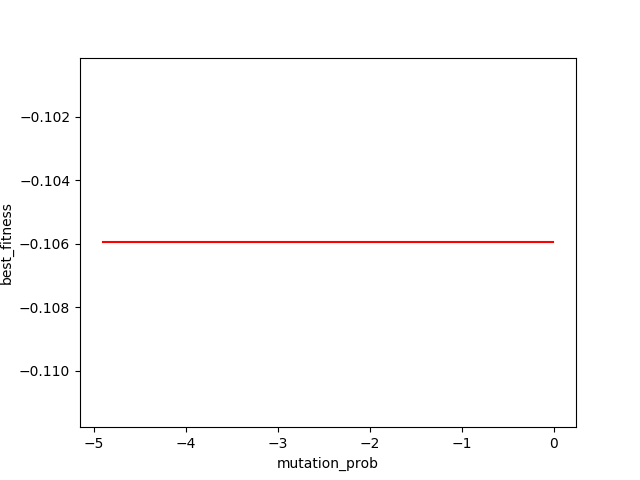
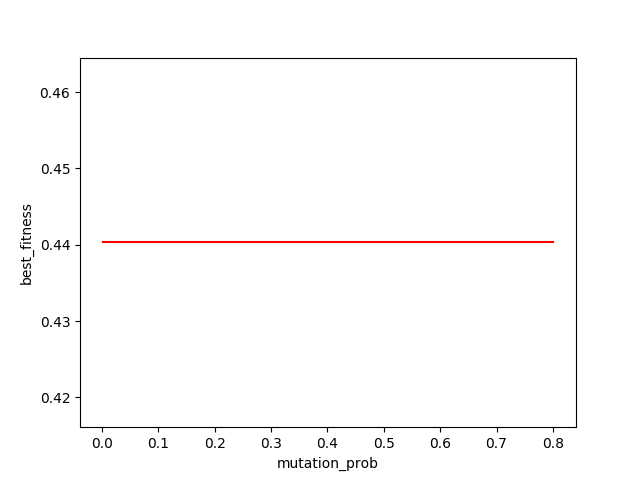
sdfds

diff --git a/HW_2/HW2.py b/HW_2/HW2.py
@@ -1,4 +1,7 @@
 import numpy as np
+import sys
+np.set_printoptions(threshold=sys.maxsize)
+import pandas as pd
 import matplotlib
 matplotlib.use('TkAgg')
 import matplotlib.pyplot as plt
@@ -291,7 +294,7 @@ def MI(problem, prob_name):
 def plotting(prob_name, algo_name, valuess):
     if (prob_name == "nCityTSP") or (prob_name == "MaxKColor"):
         for value in valuess:
-            plt.plot(value[0], value[1], color="r",)
+            plt.plot(value[0], 1/value[1], color="r",)
             x_title = value[2]
             y_title = value[3]
             plt.xlabel(x_title)
@@ -309,10 +312,10 @@ def plotting(prob_name, algo_name, valuess):
             plt.savefig('{}_{}_{}.png'.format(prob_name, algo_name, value[2]))
             plt.gcf().clear()
 
-def generate_prob_MKC(random_seed=0, nodes=8, size=5):
+def generate_prob_MKC(random_seed=0, nodes=8, sample_size=5):
     np.random.seed(random_seed)
     problem_list = []
-    for n in range(size):
+    for n in range(sample_size):
         edges_list = []
         for i in range(nodes):
             for j in range(i + 1, nodes):
@@ -327,22 +330,11 @@ def generate_prob_MKC(random_seed=0, nodes=8, size=5):
         problem_list.append(problem)
     return problem_list
 
-if __name__=="__main__":
-
-    '''Problem 1: n-city TSP: over a map of given size,
-    generate N cities for a salesman to travel through each city and find the shortest route'''
-    # Create list of city coordinates
-    result_RHC_list = []
-    result_SA_list = []
-    result_GA_list = []
-    result_MI_list = []
-    result_RHC_title = []
-
-    for random_seed in range(3):
-
-        np.random.seed(random_seed)
-
-        city_num = 6
+def generate_prob_TSP(random_seed=0, citys=6, sample_size=5):
+    np.random.seed(random_seed)
+    problem_list = []
+    for n in range(sample_size):
+        city_num = citys
         coords_list = []
         for i in range(city_num):
             coords_list.append((np.random.random_sample(), np.random.random_sample()))
@@ -354,60 +346,89 @@ if __name__=="__main__":
         # rev_dist_list = np.array(rev_dist_list)
 
         # Initialize fitness function object using coords_list
-        fitness_cords = mlrose.TravellingSales(coords = coords_list)
+        fitness_cords = mlrose.TravellingSales(coords=coords_list)
         # fitness_dists = mlrose.TravellingSales(distances = rev_dist_list)
 
         # Define optimization problem object
-        problem_nCityTSP = mlrose.TSPOpt(length=city_num, fitness_fn=fitness_cords, maximize=False)
+        problem = mlrose.TSPOpt(length=city_num, fitness_fn=fitness_cords, maximize=False)
+        problem_list.append(problem)
+    return problem_list
 
-        result_RHC = RHC(problem_nCityTSP, "nCityTSP")
+
+def prob_to_curves(prob_name, problem_list):
+    # Create list of city coordinates
+    result_RHC_list = []
+    result_SA_list = []
+    result_GA_list = []
+    result_MI_list = []
+
+    for problem in problem_list:
+        result_RHC = RHC(problem, prob_name)
         result_RHC_num = result_RHC[0:, :2]
         result_RHC_list.append(result_RHC_num)
 
-        # result_SA = SA(problem_nCityTSP, "nCityTSP")
-        # result_SA_num = result_SA[0:, :2]
-        # result_SA_list.append(result_SA_num)
+        result_SA = SA(problem, prob_name)
+        result_SA_num = result_SA[0:, :2]
+        result_SA_list.append(result_SA_num)
 
-        # result_GA = GA(problem_nCityTSP, "nCityTSP")
-        # result_GA_num = result_GA[0:, :2]
-        # result_GA_list.append(result_GA_num)
-        #
-        # result_MI = MI(problem_nCityTSP, "nCityTSP")
-        # result_MI_num = result_MI[0:, :2]
-        # result_MI_list.append(result_MI_num)
+        result_GA = GA(problem, prob_name)
+        result_GA_num = result_GA[0:, :2]
+        result_GA_list.append(result_GA_num)
 
-    result_RHC_list = np.array(result_RHC_list) 
+        result_MI = MI(problem, prob_name)
+        result_MI_num = result_MI[0:, :2]
+        result_MI_list.append(result_MI_num)
+
+    result_RHC_list = pd.DataFrame(result_RHC_list)
+    result_RHC_list = result_RHC_list.fillna(method='ffill')
+    print("=======b4 mean====", result_RHC_list)
     result_RHC_mean = np.nanmean(result_RHC_list, axis=0)
+    print("=======mean====", result_RHC_mean)
     result_RHC_title = result_RHC[0:, 2:]
-    results_RHC_complete = np.concatenate((result_RHC_mean, result_RHC_title), axis=1)
-    plotting("nCityTSP", "RHC", results_RHC_complete)
+    results_RHC_complete = np.concatenate((result_RHC_mean[0], result_RHC_title), axis=1)
+    plotting(prob_name, "RHC", results_RHC_complete)
 
-    # result_SA_list = np.array(result_SA_list)
-    # result_SA_mean = np.nanmean(result_SA_list, axis=0)
-    # result_SA_title = result_SA[0:, 2:]
-    # results_SA_complete = np.concatenate((result_SA_mean, result_SA_title), axis=1)
-    # plotting("nCityTSP", "SA", results_SA_complete)
+    result_SA_list = pd.DataFrame(result_SA_list)
+    result_SA_list = result_SA_list.fillna(method='ffill')
+    result_SA_mean = np.nanmean(result_SA_list, axis=0)
+    result_SA_title = result_SA[0:, 2:]
+    results_SA_complete = np.concatenate((result_SA_mean[0], result_SA_title), axis=1)
+    plotting(prob_name, "SA", results_SA_complete)
 
-    # result_GA_list = np.array(result_GA_list) * -1
-    # result_GA_mean = np.nanmean(result_GA_list, axis=0)
-    # result_GA_title = result_GA[0:, 2:]
-    # results_GA_complete = np.concatenate((result_GA_mean, result_GA_title), axis=1)
-    # plotting("nCityTSP", "GA", results_GA_complete)
+    result_GA_list = pd.DataFrame(result_GA_list)
+    result_GA_list = result_GA_list.fillna(method='ffill')
+    result_GA_mean = np.nanmean(result_GA_list, axis=0)
+    result_GA_title = result_GA[0:, 2:]
+    results_GA_complete = np.concatenate((result_GA_mean[0], result_GA_title), axis=1)
+    plotting(prob_name, "GA", results_GA_complete)
     #
-    # result_MI_list = np.array(result_MI_list) * -1
-    # result_MI_mean = np.nanmean(result_MI_list, axis=0)
-    # result_MI_title = result_MI[0:, 2:]
-    # results_MI_complete = np.concatenate((result_MI_mean, result_MI_title), axis=1)
-    # plotting("nCityTSP", "MI", results_MI_complete)
+    result_MI_list = pd.DataFrame(result_MI_list)
+    result_MI_list = result_MI_list.fillna(method='ffill')
+    print("=======b4 mean====", result_MI_list[0])
+    result_MI_mean = np.nanmean(result_MI_list, axis=0)
+    print("=======mean====", result_MI_mean)
+    result_MI_title = result_MI[0:, 2:]
+    results_MI_complete = np.concatenate((result_MI_mean[0], result_MI_title), axis=1)
+    plotting(prob_name, "MI", results_MI_complete)
+
+
+if __name__=="__main__":
+
+    '''Problem 1: n-city TSP: over a map of given size,
+    generate N cities for a salesman to travel through each city and find the shortest route'''
+    problem_list_TSP = generate_prob_TSP(random_seed=0, citys=6, sample_size=5)
+    prob_to_curves("nCityTSP", problem_list_TSP)
+
+    problem_list_MKC = generate_prob_MKC(random_seed=0, nodes=8, sample_size=5)
+    prob_to_curves("MaxKColor", problem_list_MKC)
+
+
+
 
     '''Problem 2: Max-k color optimization problem. Evaluates the fitness of an n-dimensional state vector
     𝑥 = [𝑥0, 𝑥1, . . . , 𝑥𝑛−1], where 𝑥𝑖 represents the color of node i, as the number of pairs of adjacent nodes of the
     same color.'''
-    # Create a random nodes map
-    # result_RHC_list = []
-    # result_SA_list = []
-    # result_GA_list = []
-    # result_MI_list = []
+
 
 
 
